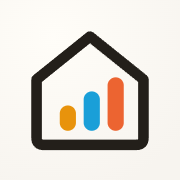
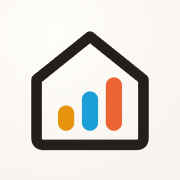
AllTrack 7.8.2: Fällig-Karte auf dem Handy, Web-Symbole mittig

diff --git a/index.html b/index.html
@@ -140,7 +140,10 @@ a{color:inherit;text-decoration:none}
 .due .dots .cb:first-child{margin-left:0}
 .due .t{font-weight:900}
 .due .s{opacity:.72;font-size:.86rem}
-.due .go{margin-left:auto}
+.due .go{margin-left:auto;flex:none}
+.due .dt{min-width:0}
+/* drei Zähler auf dem Handy: Knopf in eine eigene Zeile, sonst bricht der Text in fünf Zeilen um */
+@media (max-width:520px){.due.d3{flex-wrap:wrap}.due.d3 .dt{flex:1}.due.d3 .go{flex:1 1 100%;margin-left:0;justify-content:center}}
 .done{display:flex;align-items:center;gap:12px;padding:14px 16px;border-radius:var(--r-lg);background:var(--pos-bg);color:var(--pos);font-weight:800}
 .done small{display:block;color:var(--muted);font-weight:700}
 
@@ -555,7 +558,7 @@ var SB_URL="https://xiwibfscbfrglgfjadza.supabase.co";
 var SB_KEY="sb_publishable_HwDaZdyk-HcYjBLcJvsVnQ_gHCAcprm";
 /* Versionsnummer: Hauptzahl = großer Umbau, Mitte = neue Funktionen, hinten = Korrekturen.
    Änderungen stehen in CHANGELOG.md. */
-var APP_VERSION="7.8.1";
+var APP_VERSION="7.8.2";
 /* Pfad der App (Scope des Service Workers) */
 var APP_PATH=location.pathname.replace(/[^\/]*$/,"");
 var DB_SCHEMA="public";
@@ -1958,7 +1961,7 @@ function screenStart(){
   /* Fällig */
   var due=dueOrFresh(),dueHtml;
   if(due.length){
-    dueHtml='<a class="due" href="#/ablesen"><span class="dots">'+due.map(function(c){return catBadge(c);}).join("")+'</span><span><span class="t">'+due.length+' Zähler fällig</span><br><span class="s">'+(readingsDue().length?"für "+monthName(billKey(todayISO())):"Startwert eintragen")   /* der Monat, in den ein heutiger Stand fällt */+'</span></span><span class="btn onink sm go">Ablesen '+ic("arrow",16)+'</span></a>';
+    dueHtml='<a class="due'+(due.length>=3?" d3":"")+'" href="#/ablesen"><span class="dots">'+due.map(function(c){return catBadge(c);}).join("")+'</span><span class="dt"><span class="t">'+due.length+' Zähler fällig</span><br><span class="s">'+(readingsDue().length?"für "+monthName(billKey(todayISO())):"Startwert eintragen")   /* der Monat, in den ein heutiger Stand fällt */+'</span></span><span class="btn onink sm go">Ablesen '+ic("arrow",16)+'</span></a>';
   }else{
     var nx=naechsteAblesung();
     dueHtml='<div class="done">'+ic("check",22)+'<span>Alles abgelesen<small>Nächste Ablesung ab '+deDate(nx)+'</small></span></div>';

diff --git a/CHANGELOG.md b/CHANGELOG.md
@@ -3,6 +3,14 @@
 Versionsnummer: **Hauptzahl** = großer Umbau · **Mitte** = neue Funktionen · **hinten** = Korrekturen.
 Die aktuelle Nummer steht in der App unter *Mehr → Rechenweg und Version* (`APP_VERSION` in `index.html`).
 
+## 7.8.2 – 16.11.2026
+
+**Durchsicht der Oberfläche.**
+- Startseite auf dem Handy: Sind drei Zähler fällig, steht der Knopf „Ablesen“ in einer eigenen Zeile. Vorher brach
+  „3 Zähler fällig für November 2026“ in fünf Zeilen um.
+- Symbol: Die drei Balken stehen mittig im Haus (vorher leicht nach rechts versetzt), auch in den Symbolen für den
+  Startbildschirm.
+
 ## 7.8.1 – 16.11.2026
 
 **Gesamtprüfung: Korrekturen bei Haushaltswechsel, Import, Export und Bedienung.**
